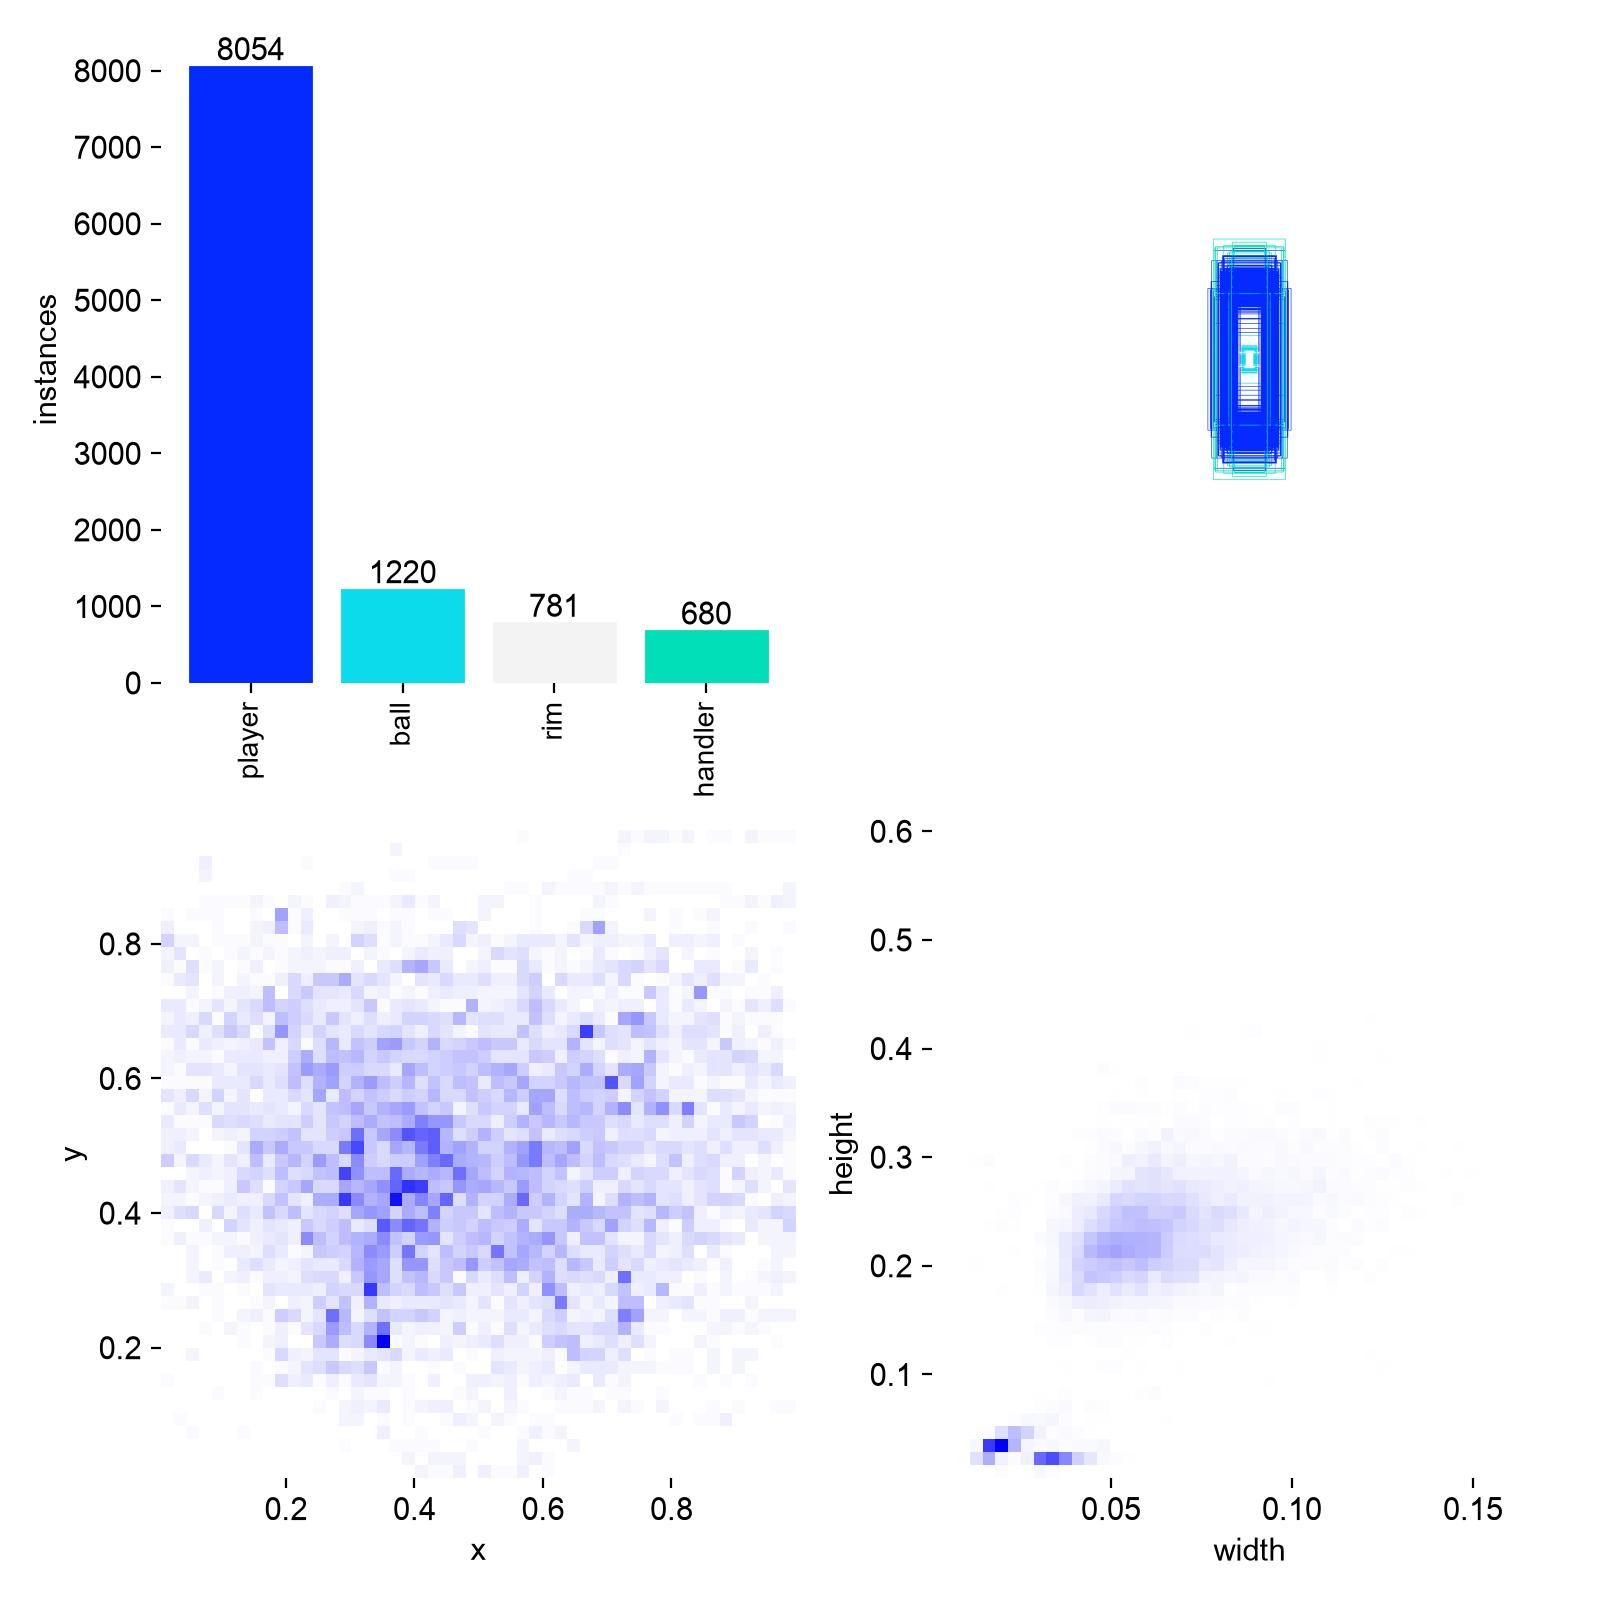
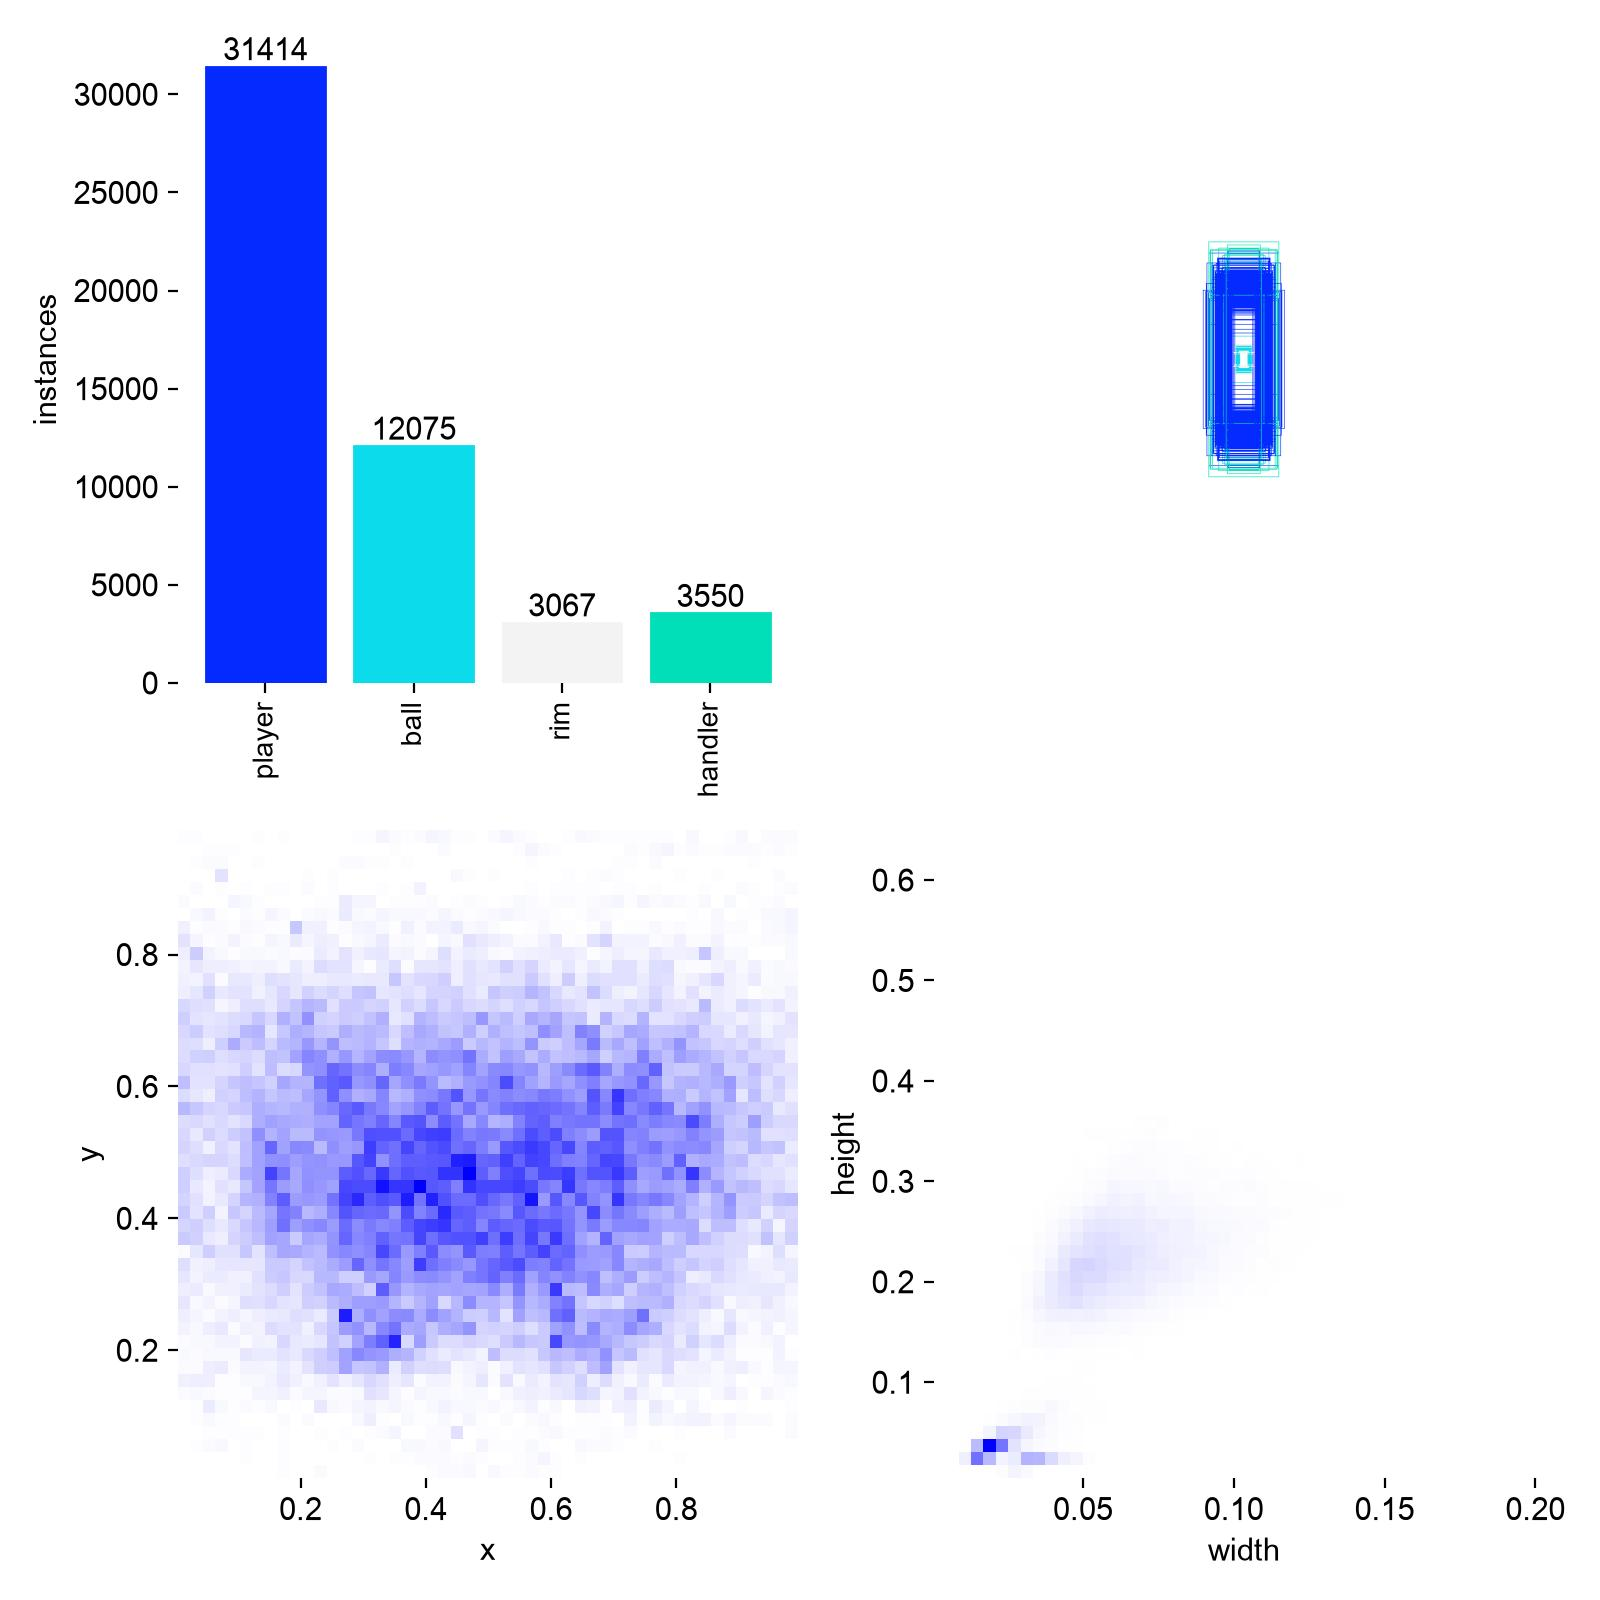
Document the V6 possession investigation and its dead ends

diff --git a/docs/possession-investigation.md b/docs/possession-investigation.md
@@ -1,0 +1,68 @@
+# V6 possession: what was tried, measured, and rejected
+
+Spec §10 says possession is "a proximity heuristic, not ground truth... the goal
+is mostly right, not perfect." This records how far that goes on real NBA
+broadcast footage, so nobody repeats the dead ends.
+
+## The core difficulty, measured
+
+On the sample clip, over frames where the ball is detected and ≥2 players are present:
+
+| quantity | value |
+|---|---|
+| median distance, nearest player to ball | 0.44 body-heights |
+| median distance, runner-up | 0.87 |
+| **median separation between them** | **0.21** |
+| frames where runner-up is within 0.3 | **61%** |
+
+A defender is about as close to the ball as the ball-handler in most frames.
+Proximity is therefore *under-determined*, not merely noisy.
+
+## Approaches tried
+
+| approach | result | verdict |
+|---|---|---|
+| Centre-to-centre proximity | 61% of frames ambiguous | baseline |
+| **Box-edge distance** | 69% ambiguous — *worse* | rejected |
+| Box containment | resolves exactly one player in 25/67 frames | insufficient |
+| **Ball-motion correlation** | 0/2 where proximity scored 2/2 | rejected |
+| Learned `handler`, 191 instances | 1/4 on the answer key vs 3/4 for proximity | rejected |
+| Learned `handler`, 680 instances | fires 49% of frames @0.85 conf (was 24% @0.55) | improved |
+| Parameter sweep over distance/hysteresis/gap | **5/7, no configuration anywhere beats it** | ceiling |
+
+**Why motion correlation failed:** the ball is detected in only ~63% of frames,
+so a displacement window rarely has the ball at both endpoints. Widening the
+window to find frames that do have it spans too much time to be discriminative.
+
+**Why the parameter sweep plateaus:** the two remaining failures pull in opposite
+directions. One needs a *looser* distance threshold to catch a real handler; the
+other needs a *tighter* one to reject a ball in flight. No single threshold
+satisfies both.
+
+## What actually moves the needle: weak supervision
+
+Proximity is not always ambiguous. In ~12% of frames the ball is clearly nearest
+one player and well clear of the runner-up. Those frames label themselves, and
+training on them teaches the detector the *appearance* of a ball-handler — hands
+on the ball, body squared to it — which is the cue proximity can never access in
+a crowd.
+
+`scripts/harvest_handler_labels.py` collects these with deliberately strict
+thresholds (nearest ≤ 0.45 body-heights, separation ≥ 0.55): a wrong pseudo-label
+is worse than a missing one. Harvested labels go to **train only**; validation
+stays human-annotated so mAP keeps measuring against real annotations.
+
+Yield improved as the detector improved — a virtuous loop:
+
+| round | source | handler instances | fires | confidence |
+|---|---|---|---|---|
+| 0 | Roboflow only | 191 | 24% | 0.55 |
+| 1 | + 489 harvested | 680 | 49% | 0.85 |
+| 2 | + 3,359 harvested | 3,550 | *pending* | *pending* |
+
+## Evaluation design note
+
+The V6 answer key stores **image positions**, not track IDs. An earlier version
+stored IDs; retraining the detector silently invalidated every entry while the
+gate went on reporting a confident number. A point on the ball-handler's body is
+a fact about the footage and survives any model change.
